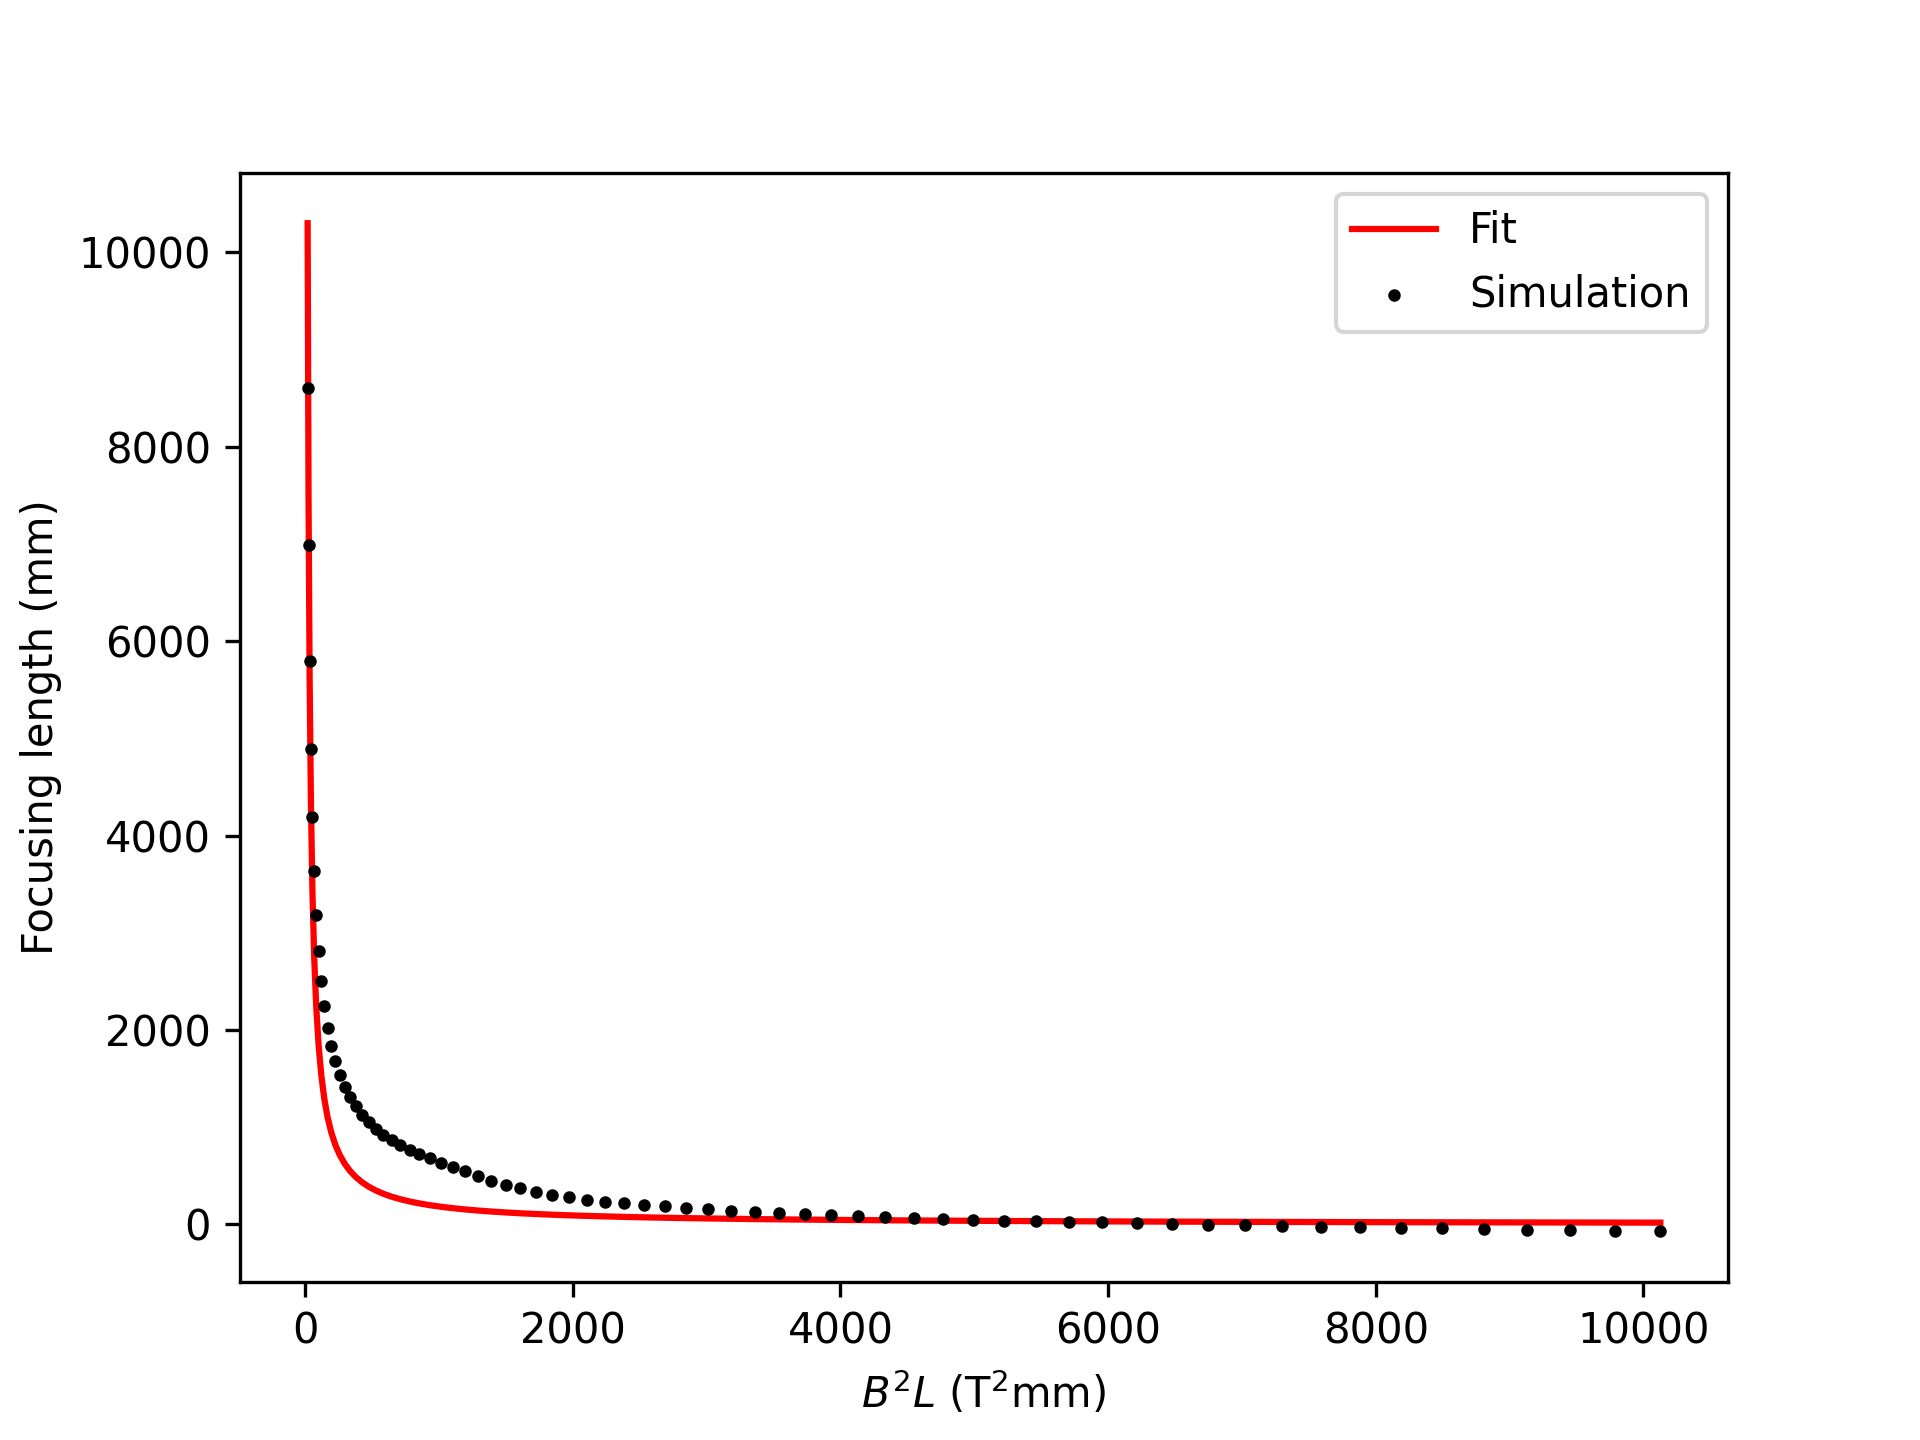
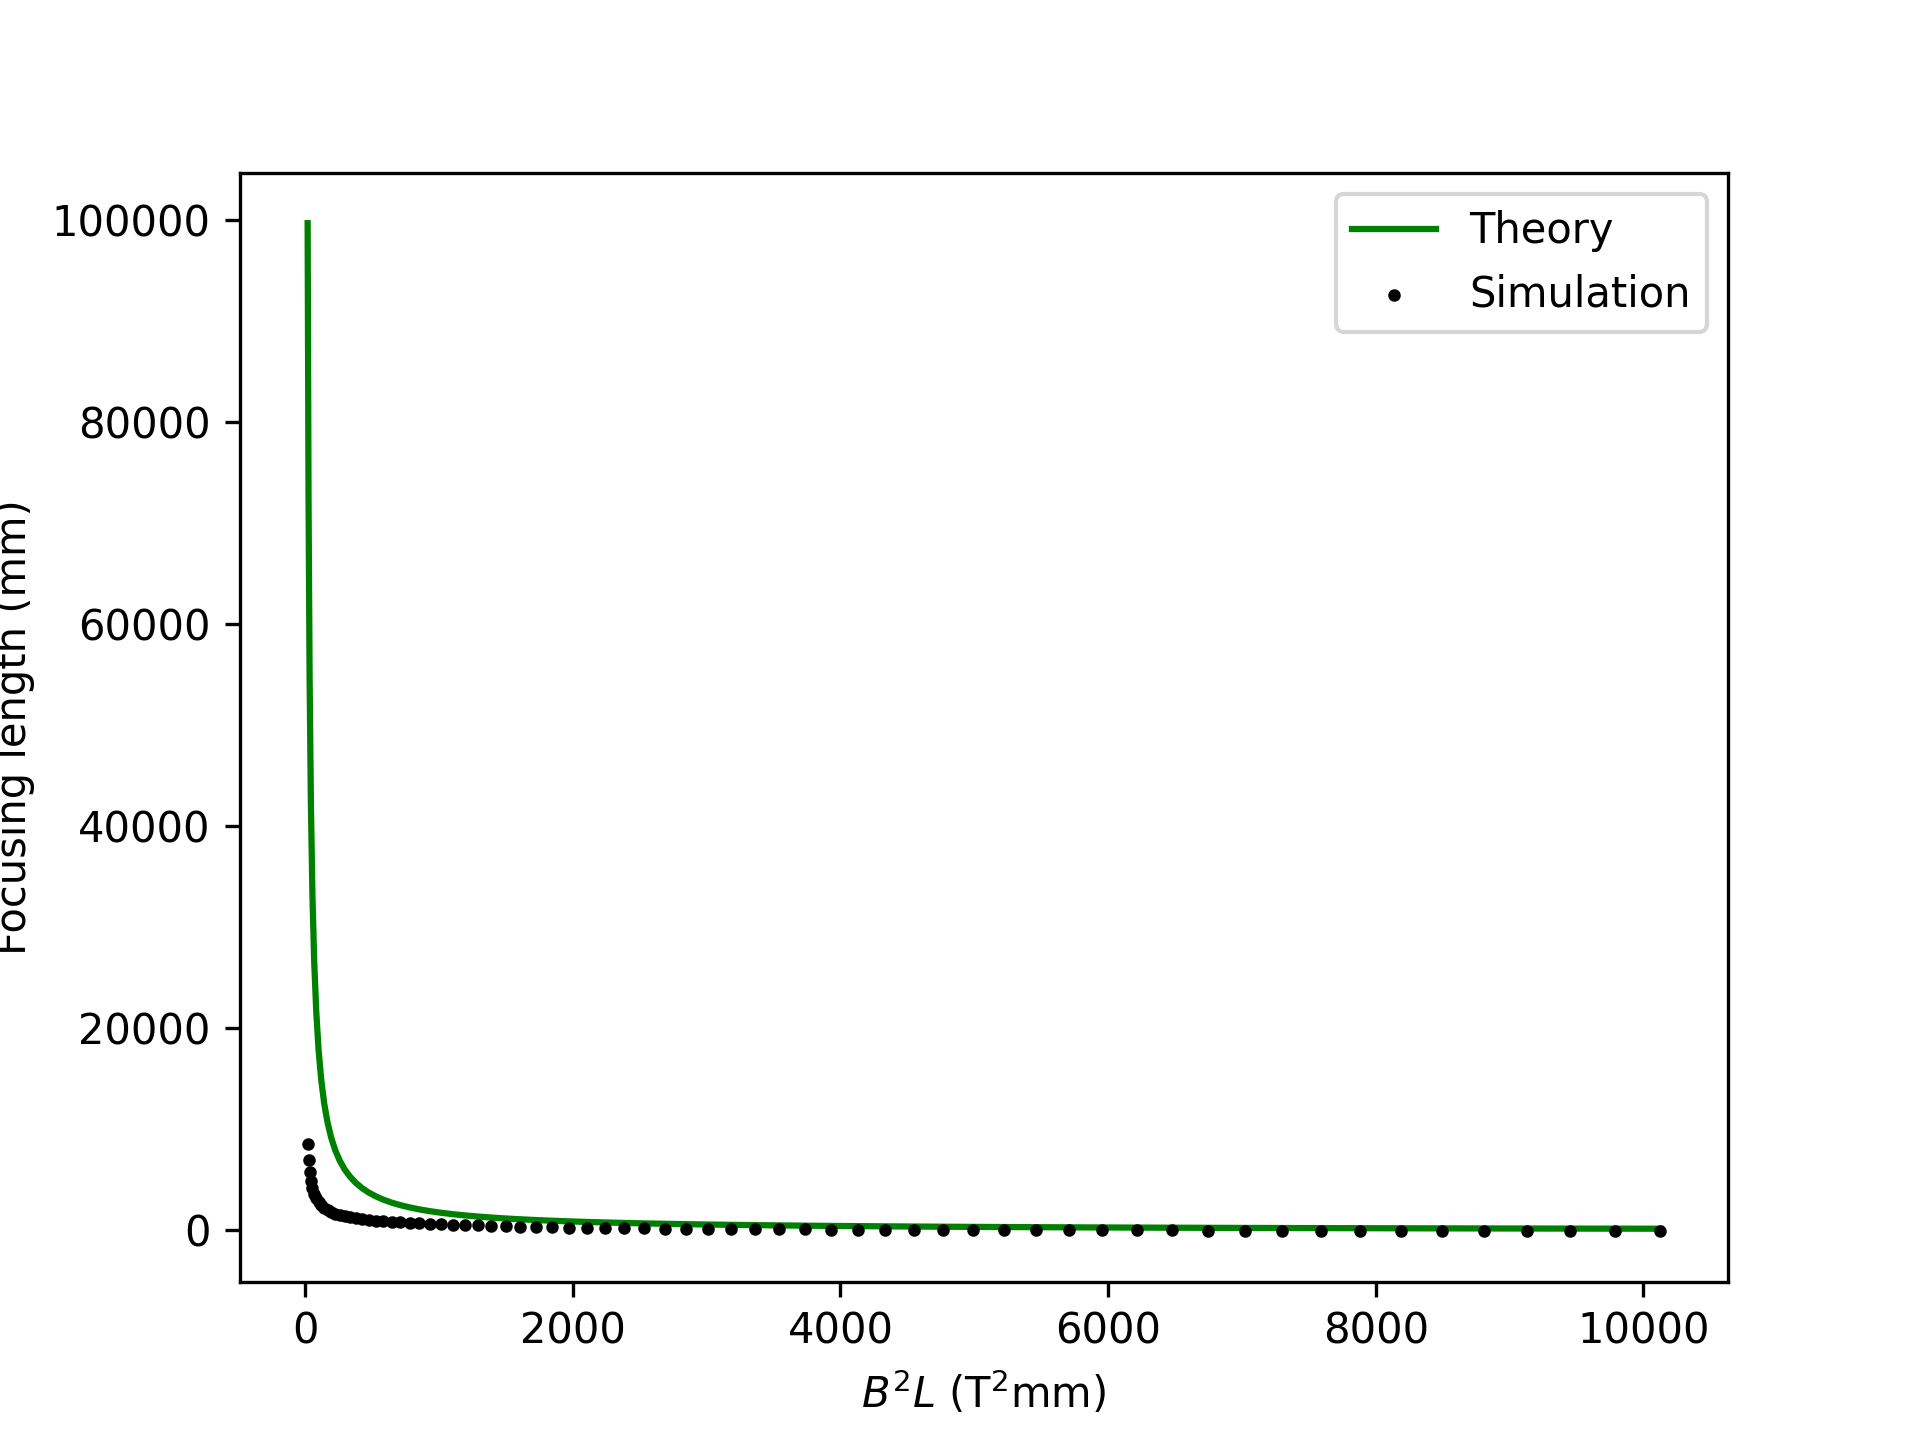
Plotting theory prediction for f over scan

diff --git a/Solenoid-Study/plot-scan-coil.py b/Solenoid-Study/plot-scan-coil.py
@@ -5,7 +5,7 @@ import math
 from scipy.optimize import curve_fit
 
 # Main directory:
-main_dir = '/Users/criggall/Documents/solenoid-study/single-coil/'
+main_dir = '/Users/criggall/Documents/muon-cooling/Solenoid-Study/single-coil/'
 
 # Range of coil lengths scanned:
 coil_lengths = np.arange(5,400,5) # mm
@@ -25,6 +25,16 @@ def calc_f(z_vals, x_vals):
         f = (z_vals[int(end_f_index)] - z_vals[int(start_f_index)])*1000 # --> mm
     else:
         f = np.nan
+    return f # mm
+
+# Define function to compute focusing length from analytical approximation:
+def pred_f(B,L):
+    p = 200 # MeV/c
+    p = p*5.344e-22 # MeV/c --> kg*m/s
+    e = 1.602e-19 # C
+    L = L/1000 # mm --> m
+    f = (4*p**2)/(e**2*B**2*L)
+    f = f*1000 # m --> mm
     return f # mm
 
 f_vals = []
@@ -54,18 +64,22 @@ for j in range(len(coil_lengths)):
     peak_Bz = np.max(Bz_vals)
     B2L_vals.append(coil_lengths[j]*peak_Bz**2)
     f_vals.append(calc_f(z_vals, x_vals))
+    f_pred_vals.append(pred_f(peak_Bz, coil_lengths[j]))
 
     del x_vals, y_vals, z_vals
 
 # Remove NaNs:
 f_vals_temp = []
 B2L_vals_temp = []
+f_pred_vals_temp = []
 for i in range(len(f_vals)):
     if np.isnan(f_vals[i]) == False:
         f_vals_temp.append(f_vals[i])
         B2L_vals_temp.append(B2L_vals[i])
+        f_pred_vals_temp.append(f_pred_vals[i])
 f_vals = f_vals_temp; del f_vals_temp
 B2L_vals = B2L_vals_temp; del B2L_vals_temp
+f_pred_vals = f_pred_vals_temp; del f_pred_vals_temp
 
 # Define function to fit to f vs. B^2*L:
 def fit_f(B2L, a):
@@ -77,8 +91,9 @@ f_fit_vals = fit_f(B2L_vals, *popt)
 print(f'Fit result: f = {np.round(*popt,1)}/(B^2*L)')
 
 # Plot focusing length vs. B^2*L:
-plt.plot(B2L_vals,f_fit_vals,color='red',label='Fit',zorder=1)
-plt.scatter(B2L_vals,f_vals,s=4,color='black',label='Simulation',zorder=2)
+start = 0
+plt.plot(B2L_vals[start:],f_pred_vals[start:],color='green',label='Theory',zorder=1)
+plt.scatter(B2L_vals[start:],f_vals[start:],s=4,color='black',label='Simulation',zorder=2)
 plt.ylabel('Focusing length (mm)')
 plt.xlabel('$B^2 L$ (T$^2$mm)')
 plt.legend()

diff --git a/Solenoid-Study/plot-scan-lattice.py b/Solenoid-Study/plot-scan-lattice.py
@@ -10,7 +10,7 @@ import imageio.v2 as imageio
 # # polarity = 'not_flipped'
 
 # # Main directory:
-# main_dir = '/Users/criggall/Documents/solenoid-study/'
+# main_dir = '/Users/criggall/Documents/muon-cooling/Solenoid-Study/'
 
 # # Define working directory:
 # if polarity == 'flipped':
@@ -18,7 +18,7 @@ import imageio.v2 as imageio
 # elif polarity == 'not_flipped':
 #      main_dir = main_dir+'not-flipped/'
 
-main_dir = '/Users/criggall/Documents/solenoid-study/single-coil/'
+main_dir = '/Users/criggall/Documents/muon-cooling/Solenoid-Study/single-coil/'
 
 # Parameter space scanned:
 # nominal_tilt = -0.0025*180/np.pi

diff --git a/Solenoid-Study/automate-g4bl.py b/Solenoid-Study/automate-g4bl.py
@@ -8,7 +8,7 @@ polarity = 'flipped'
 # polarity = 'not_flipped'
 
 # Define directory where g4bl is installed:
-g4bl_dir = '/Users/criggall/Documents/solenoid-study/' # Location of .bash_profile
+g4bl_dir = '/Users/criggall/Documents/muon-cooling/Solenoid-Study/' # Location of .bash_profile
 
 # Define working directory:
 if polarity == 'flipped':

diff --git a/Solenoid-Study/automate-g4bl2.py b/Solenoid-Study/automate-g4bl2.py
@@ -4,7 +4,7 @@ import numpy as np
 ##### INPUTS #####
 
 # Define directory where g4bl is installed:
-g4bl_dir = '/Users/criggall/Documents/solenoid-study/' # Location of .bash_profile
+g4bl_dir = '/Users/criggall/Documents/muon-cooling/Solenoid-Study/' # Location of .bash_profile
 
 # Define working directory:
 dir = g4bl_dir+'single-coil/'
